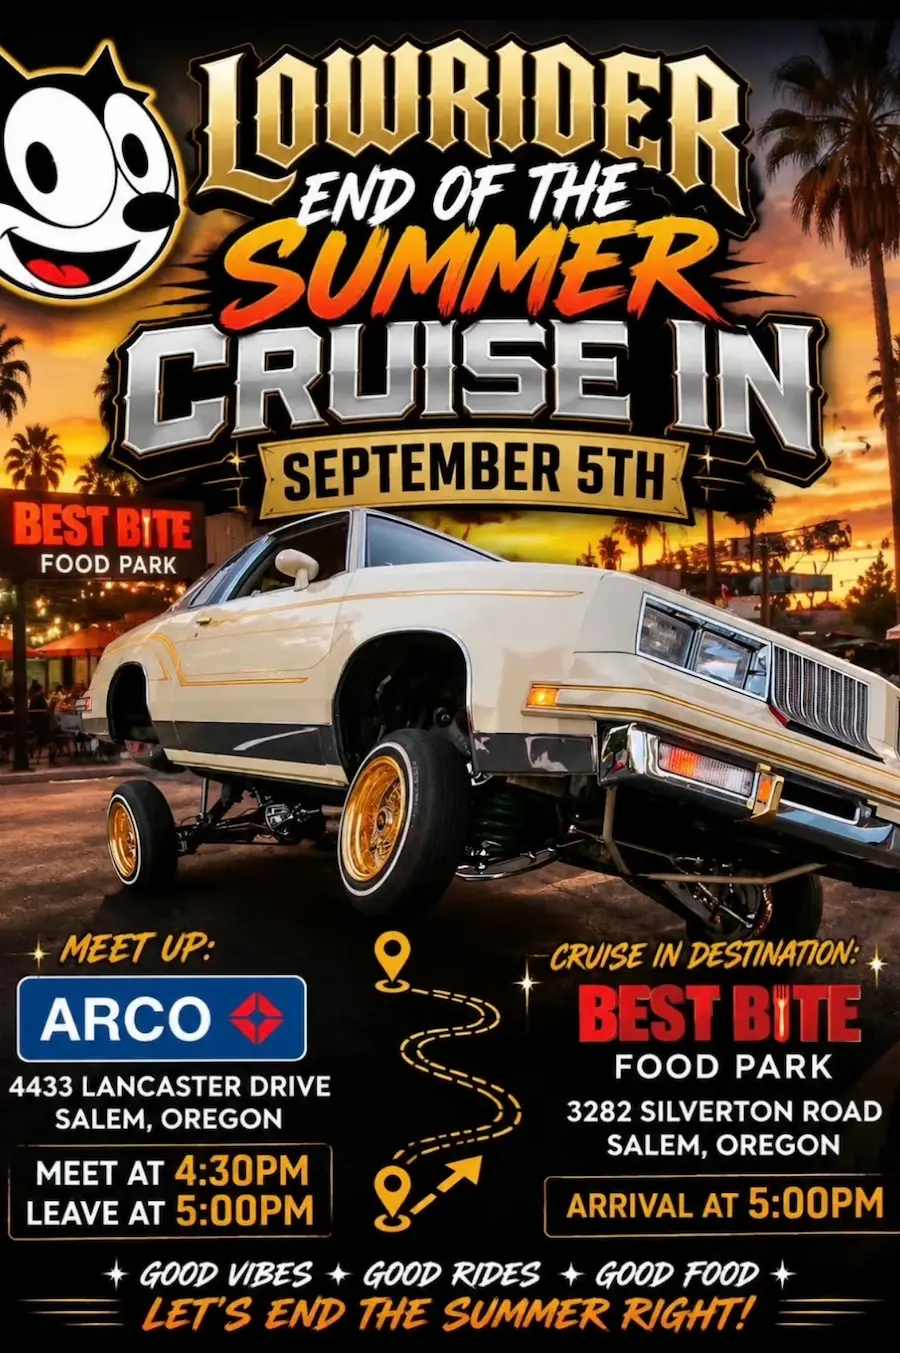
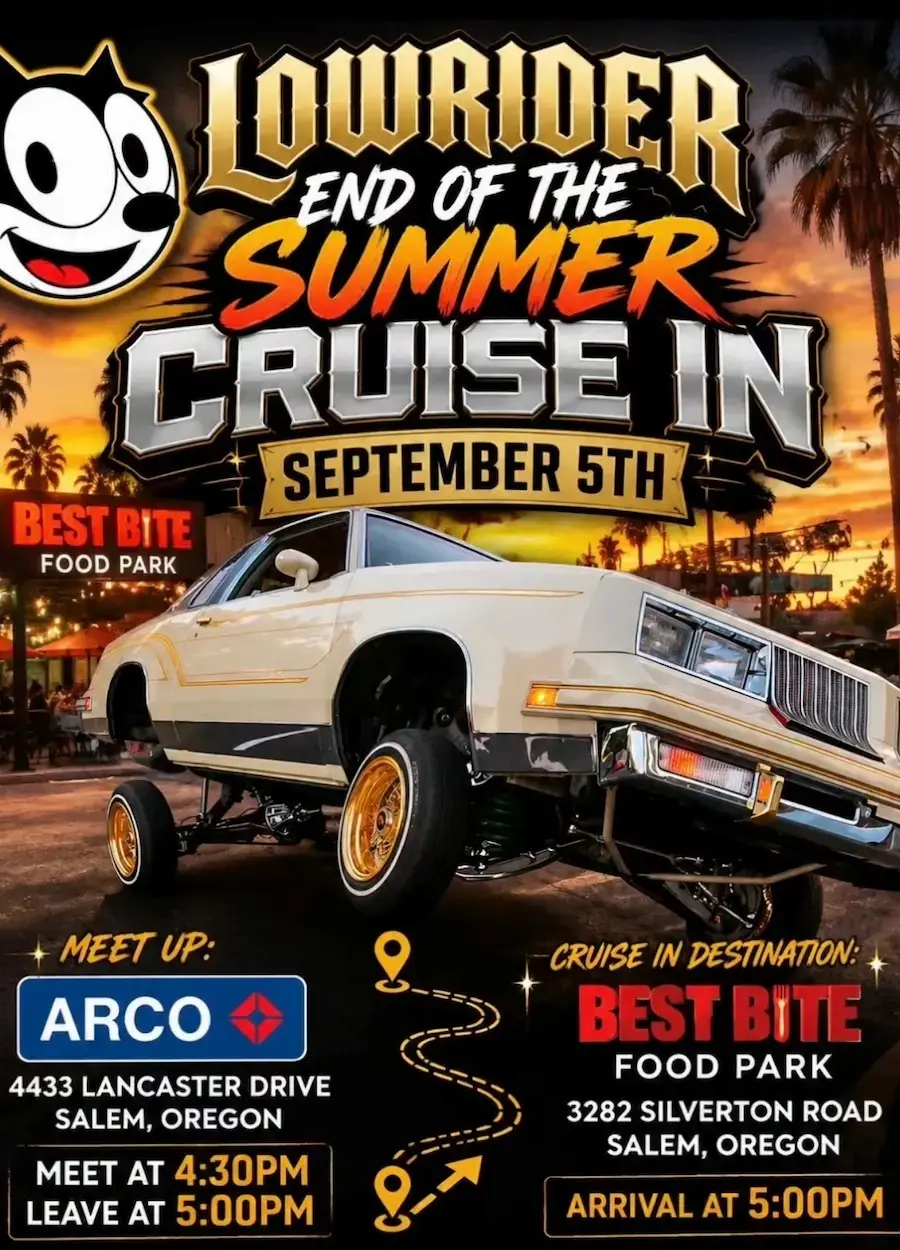
Update events page

diff --git a/src/components/EventListingCard.tsx b/src/components/EventListingCard.tsx
@@ -13,9 +13,12 @@ interface EventListingCardProps {
 
 /**
  * Tall, skinny, photo-forward event card for the homepage teaser: image on
- * top at its own aspect ratio (4:5, matching the park's flyer artwork so
- * posters show in full rather than getting cropped), title, hours, and
- * short description below, a "view all events" CTA at the bottom. A white
+ * top in a fixed 4:5 box (center-cropped via `object-cover` so every card's
+ * image is exactly the same height regardless of the source poster's
+ * dimensions, which keeps the text below starting at the same point across
+ * a row), title, hours, and short description below, a "view all events"
+ * CTA at the bottom. The `<img>` is positioned `absolute` inside the
+ * `relative` aspect box so its intrinsic size can't stretch the box. A white
  * matting border (the outer padded frame) sits around the whole card, so
  * the photo/content block reads as inset and smaller than the card's own
  * outer edge. The card stretches to fill its grid cell (`h-full`) and the
@@ -34,8 +37,12 @@ export function EventListingCard({
   return (
     <div className="mx-auto flex h-full w-full max-w-[300px] flex-col rounded-2xl bg-white p-3 shadow-lg">
       <div className="flex h-full flex-col overflow-hidden rounded-xl">
-        <div className="aspect-[4/5] w-full shrink-0">
-          <img src={imageUrl} alt={name} className="h-full w-full object-cover" />
+        <div className="relative aspect-[4/5] w-full shrink-0 overflow-hidden">
+          <img
+            src={imageUrl}
+            alt={name}
+            className="absolute inset-0 h-full w-full object-cover"
+          />
         </div>
 
         <div className="flex flex-1 flex-col gap-2 bg-white p-5">
